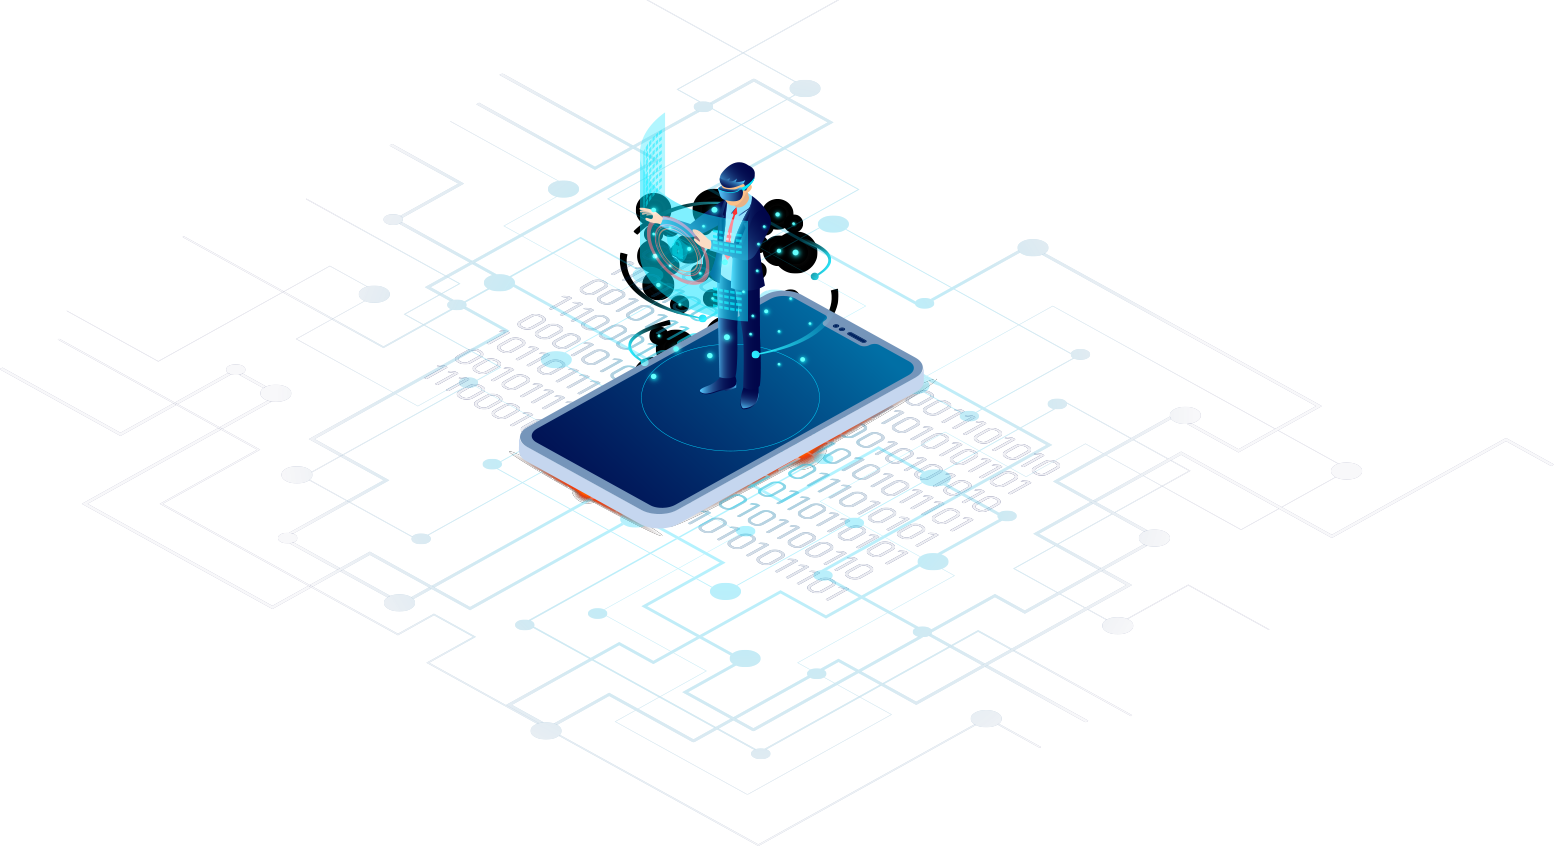
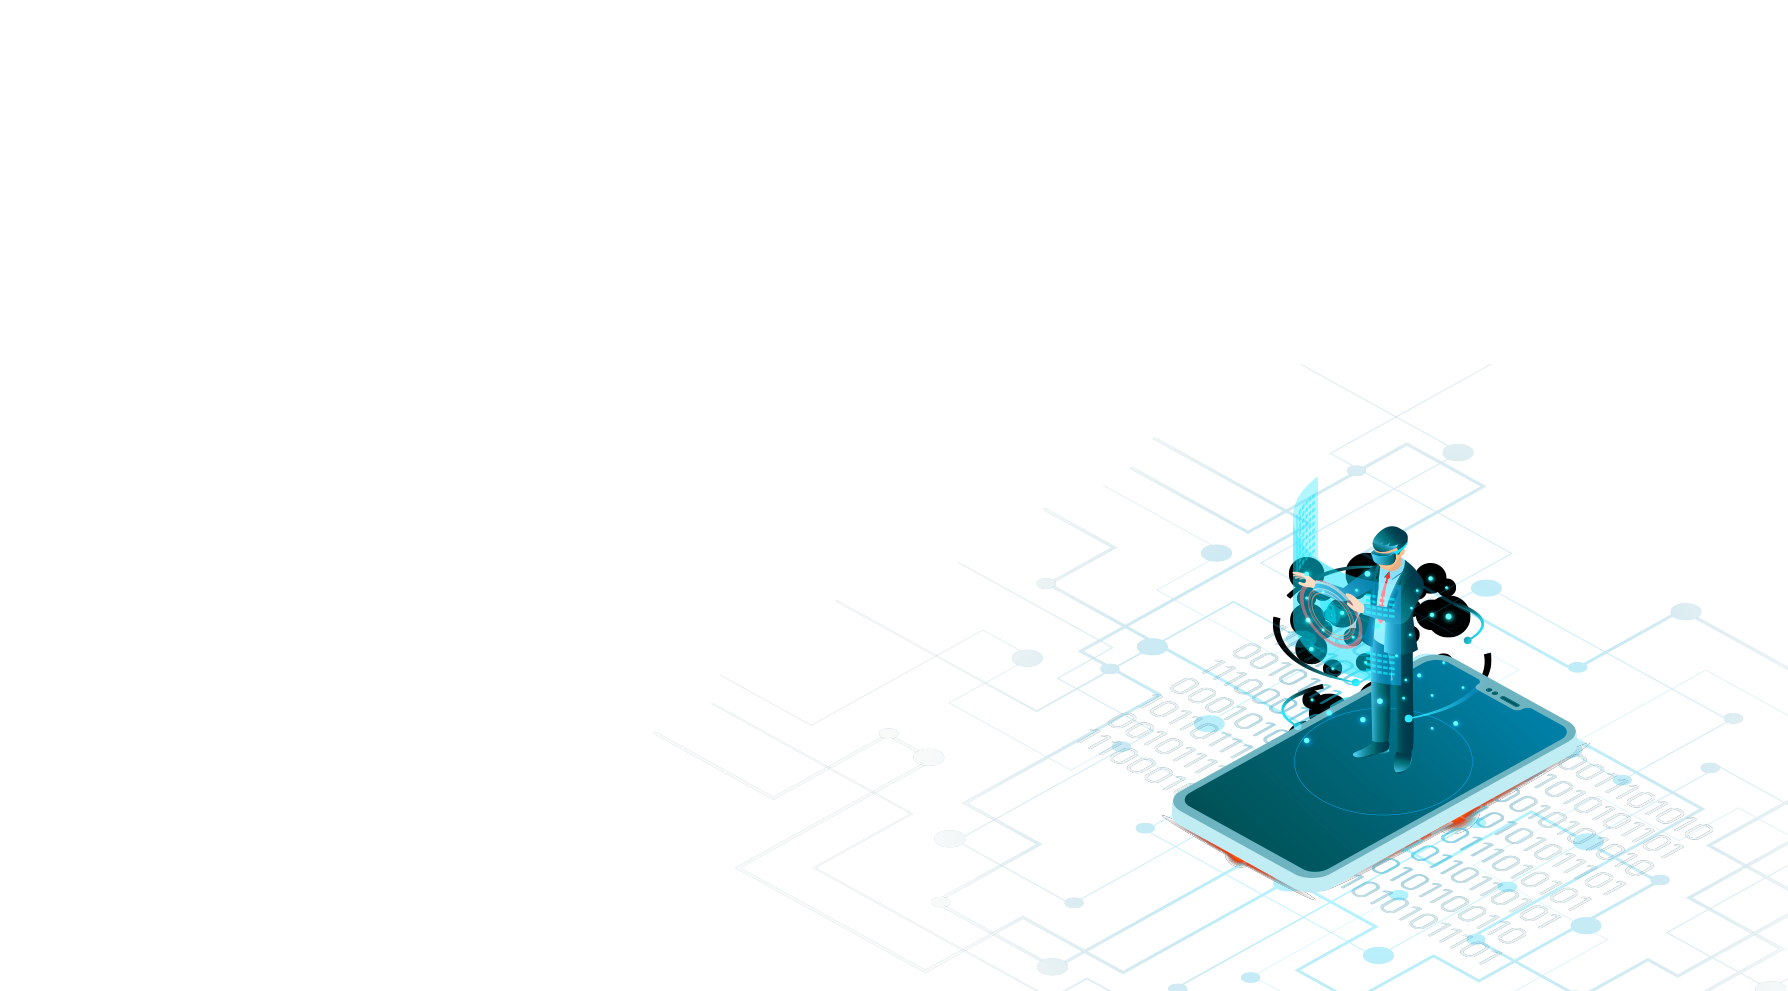
add hero image

diff --git a/scss/main.scss b/scss/main.scss
@@ -84,11 +84,15 @@
                         hero-section
 =======================================================*/
 #hero-section {
-    background: linear-gradient(225deg, $primaryColor, $secondaryColor);
+    background: linear-gradient(225deg, $primaryColor, $secondaryColor), url("../images/bg-01.png");
     min-height: 100vh;
     height: 100%;
     padding-top: 75px;
     padding-bottom: 75px;
+    background-size: cover;
+    background-position: right bottom;
+    background-repeat: no-repeat;
+    background-blend-mode: overlay;
     .container{
         .hero-section-outer-box{
             min-height: calc(100vh - 150px);

diff --git a/scss/main.css b/scss/main.css
@@ -151,11 +151,15 @@ a {
                         hero-section
 =======================================================*/
 #hero-section {
-  background: linear-gradient(225deg, #1695a6, #106a76);
+  background: linear-gradient(225deg, #1695a6, #106a76), url("../images/bg-01.png");
   min-height: 100vh;
   height: 100%;
   padding-top: 75px;
   padding-bottom: 75px;
+  background-size: cover;
+  background-position: right bottom;
+  background-repeat: no-repeat;
+  background-blend-mode: overlay;
 }
 #hero-section .container .hero-section-outer-box {
   min-height: calc(100vh - 150px);
